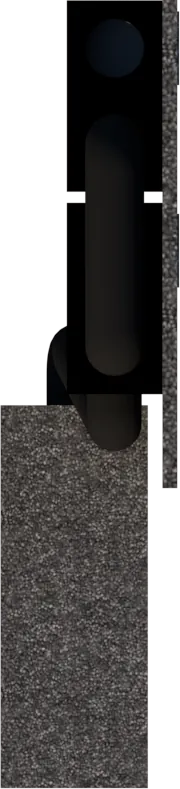
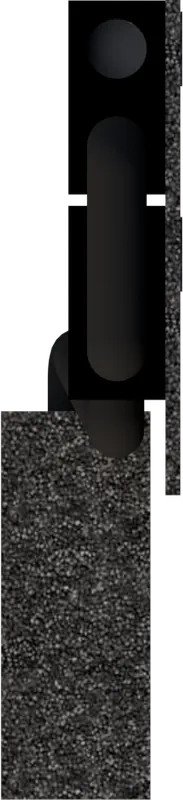
v1.100.3 — Booth art: VSS+EFS front + top-down re-imported with corrected coloring

diff --git a/templates/changelog.d/1.100.3.js b/templates/changelog.d/1.100.3.js
@@ -1,0 +1,6 @@
+module.exports = {
+  v: '1.100.3', date: 'June 10, 2026', tag: 'ui',
+  changes: [
+    { t: 'ui', d: '**VSS+EFS renders re-imported with corrected coloring** (front view and top-down plan) — the carpet tones now match the rest of the booth art.' },
+  ],
+};

diff --git a/assets/layout-render.js b/assets/layout-render.js
@@ -731,10 +731,10 @@ const ELEV_ART = {
   // the floor — wallFrac says how much of the art width is the wall itself,
   // the rest spills over the neighboring panel like the real assembly.
   VNT_VSS:     { file: 'wall-46-vnt-vss.webp',     compWIn: 46, aspect: 0.5637, vss: true },
-  VNT_VSS_EFS: { file: 'wall-46-vnt-vss-efs.webp', compWIn: 46, aspect: 0.8063, vss: true, efs: true, wallFrac: 0.702 },
+  VNT_VSS_EFS: { file: 'wall-46-vnt-vss-efs.webp', compWIn: 46, aspect: 0.8075, vss: true, efs: true, wallFrac: 0.702 },
   // top-down plan + side profiles of the VSS+EFS assembly (band ~2.2″ over
   // the wall + 10″ EFS protrusion; along-wall length derives from aspect)
-  ventVssEfsTop:  { file: 'vent-vss-efs-top.webp', aspect: 0.2281, depthIn: 12.2, bandIn: 2.2 },
+  ventVssEfsTop:  { file: 'vent-vss-efs-top.webp', aspect: 0.2288, depthIn: 12.2, bandIn: 2.2 },
   ventVssEfsSide: { fileL: 'vent-vss-efs-side-left.webp', fileR: 'vent-vss-efs-side-right.webp', aspect: 0.15, compHIn: 80.7, protIn: 10 },
   WDO:    { file: 'wall-46-wdo3236.webp', compWIn: 46, aspect: 0.5700, packOk: /WDO\s*3236\b/i },
   // door: dedicated art per hinge — fileR is the mirrored render with the

diff --git a/bot/specsheet-work/import-art.py b/bot/specsheet-work/import-art.py
@@ -50,8 +50,8 @@ MAP = {
     # ventilation upgrades: VSS (4 silencer ducts) and VSS+EFS combo —
     # front view, top-down plan and both side profiles
     'Components_46VntWallVSS.png':         'wall-46-vnt-vss.webp',
-    'Components_46VNTWallVSSandEFS.png':   'wall-46-vnt-vss-efs.webp',
-    'Components_VSSandEFS Top Down.png':   'vent-vss-efs-top.webp',
+    'Components_46vntVSS_EFS.png':         'wall-46-vnt-vss-efs.webp',
+    'Components_46vntVSS_EFS Top Down.png': 'vent-vss-efs-top.webp',
     'Components_VSSandEFSLeftSide.png':    'vent-vss-efs-side-left.webp',
     'Components_VSSandEFSRightSide.png':   'vent-vss-efs-side-right.webp',
 }

diff --git a/DEVLOG.md b/DEVLOG.md
@@ -974,6 +974,7 @@ Source of truth for in-app changelog is `templates/changelog.js`. This table is 
 
 | Version | Date       | Summary |
 |---------|------------|---------|
+| 1.100.3 | 2026-06-10 | **Booth art: VSS+EFS color-corrected re-imports.** Benton re-rendered the combo front + top-down with fixed coloring — import re-pointed at `Components_46vntVSS_EFS.png` / `Components_46vntVSS_EFS Top Down.png` (old VSSandEFS sources superseded), aspects synced (0.8075 / 0.2288). PATCH. |
 | 1.100.1 | 2026-06-10 | **Radar: GSC-decay check param-type fix + restore the 1.99.0 changelog fragment.** (1) First live scan surfaced `gsc: invalid input syntax for type integer: "0.4"` — in `_checkGscDecay` the `$2` drop-pct param is multiplied against the integer `clicks` column, so Postgres inferred int; now `$2::float`. (The per-check try/catch + error surfacing in the scan-result popup worked as designed — the other 6 checks ran and produced 4 real wasted-spend alerts.) (2) cfaae8a's collision resolution had overwritten the 📡 Radar entry in `templates/changelog.d/1.99.0.js` with a duplicate of the 1.100.0 booth-art content — Radar entry restored to 1.99.0 (1.100.0.js untouched, so /changelog is deduped). PATCH. |
 | 1.100.2 | 2026-06-10 | **Label sheet: highlight color prints.** The per-booth "Box N of M" highlight (label-sheet.html `.count` background) rendered on screen but printed white — browsers strip background colors at print time unless the element opts in. Added `-webkit-print-color-adjust:exact; print-color-adjust:exact` to `.count` (scoped there, not page-wide, so the gray UI chrome doesn't force-print). Works in Firefox + Chrome without the user touching the 'print backgrounds' checkbox. PATCH. |
 | 1.99.0  | 2026-06-10 | **Marketing: 📡 Radar — server-side alert scans + daily scheduler.** New `marketing/alerts.js`: 7 checks, all pure SQL over already-synced tables (no API spend) — SERP pair-wise rank drop ≥3 / fell out of top-10, new competitor ad on a brand term, AI Overview uncited while we rank top-10 (or citation lost), featured snippet lost; ads 7d impression-weighted budget-lost ≥20% after a <10% baseline (w/ $100 spend floor), $300+/28d spend with zero conversions; GSC commercial-query clicks −40% (14d vs prior 14d, informational queries filtered). Findings dedup on `(type, key)` into new `marketing_alerts` table (key carries a date/week component where re-fire is intended); one bell summary per scan (`MARKETING_ALERT_OWNERS`, default Gabe). Scheduler arms on the first marketing request (12h tick, scan when last >20h old — survives restarts, zero quote-server.js changes); opt-in `SERP_AUTO_SYNC_DAYS=7` adds a weekly stale-keyword SERP refresh (ETL 7d cache meters cost; default off). Dashboard: 📡 Radar tab w/ NEW-count badge on the tab button, severity-sorted feed (Active/Dismissed toggle), mark-all-seen + per-row dismiss, free Scan-now. Endpoints: GET `/api/marketing/alerts`, POST `…/alerts/ack`, `…/alerts/dismiss`, sync report `alerts`. MINOR. |